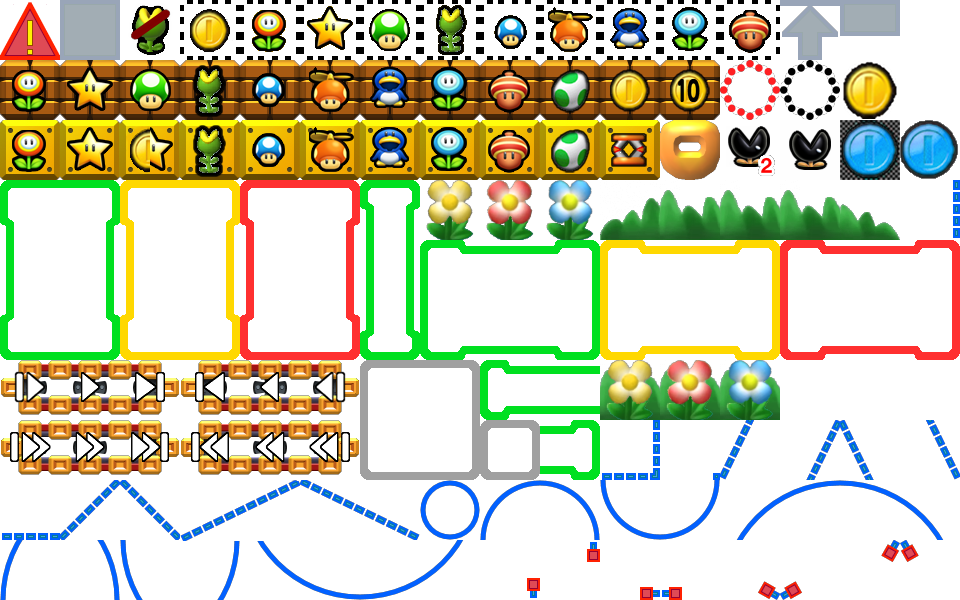
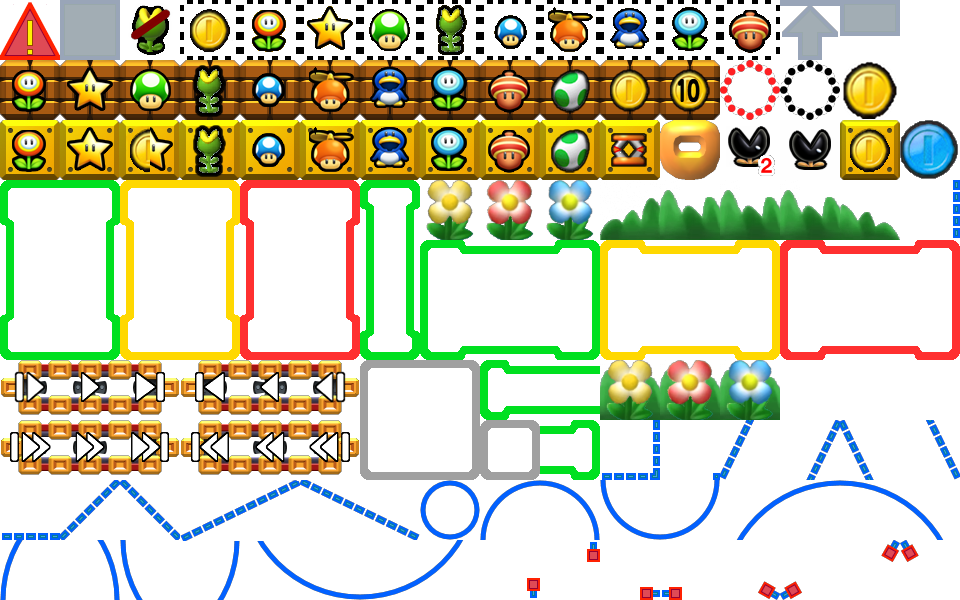
Update Object Data Editor

Changed region(s): [[0.875, 0.18, 0.9375, 0.3]]

diff --git a/miyamoto.py b/miyamoto.py
@@ -1166,8 +1166,10 @@ class LevelScene(QtWidgets.QGraphicsScene):
                                     destrow[destx] = base + thing
                                 else:
                                     base = overrides + 32
-                                    if item.data == 13 or item.data == 0:
+                                    if item.data == 0:
                                         thing = tile - base # Don't override this one, as it's a normal ? block.
+                                    elif item.data == 13:
+                                        thing = 14
                                     elif item.data == 18:
                                         thing = 10
                                     elif item.data == 19:
@@ -7784,7 +7786,7 @@ class ObjectDataEditorWidget(QtWidgets.QWidget):
 
         # create widgets
         self.brick = QtWidgets.QCheckBox()
-        self.brick.setToolTip("Use the left list")
+        self.brick.setToolTip("Transform this ? block into a Brick")
         self.brick.stateChanged.connect(self.HandleAppearanceChanged)
 
         self.contentbrick = QtWidgets.QComboBox()
@@ -7808,7 +7810,7 @@ class ObjectDataEditorWidget(QtWidgets.QWidget):
         self.contentquest = QtWidgets.QComboBox()
         self.contentquest.setToolTip("Set the content of the question block")
         self.contentquest.addItems((
-                                    "Coin",
+                                    "Normal (Coin)",
                                     "Coin",
                                     "Fire Flower",
                                     "Invincibility Star",
@@ -11896,7 +11898,7 @@ class MiyamotoWindow(QtWidgets.QMainWindow):
         dock.setFloating(True)
 
         # create the object editor panel
-        dock = QtWidgets.QDockWidget("Object data editor", self)
+        dock = QtWidgets.QDockWidget("Object Data Editor", self)
         dock.setVisible(False)
         dock.setFeatures(QtWidgets.QDockWidget.DockWidgetMovable | QtWidgets.QDockWidget.DockWidgetFloatable)
         dock.setAllowedAreas(Qt.LeftDockWidgetArea | Qt.RightDockWidgetArea)
